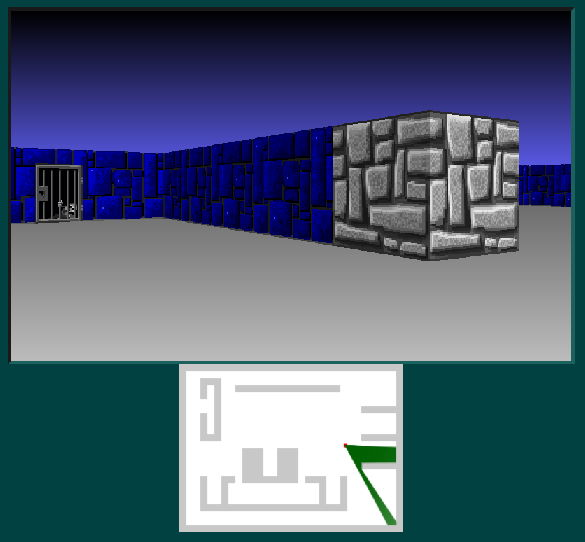
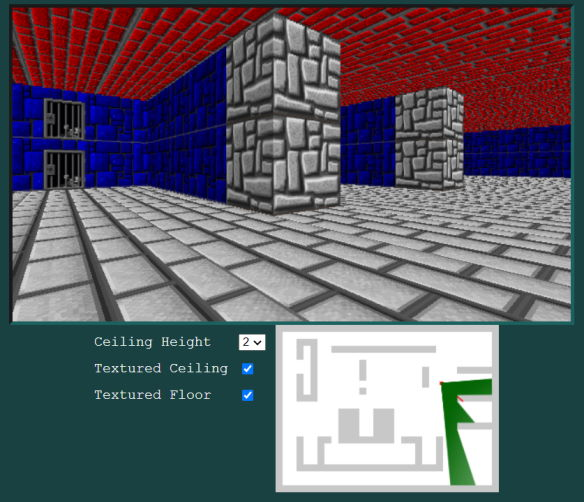
Updated README.md and screenshot

diff --git a/README.md b/README.md
@@ -9,13 +9,14 @@ A Wolfenstein 3D style JavaScript Raycaster using the browser's HTML5 Canvas for
 Heavily modified from [this article by Jacob Seidelin](http://dev.opera.com/articles/view/creating-pseudo-3d-games-with-html-5-can-1/).
 
 Main Differences from original article:
-- **A single &lt;canvas&gt;** is now used for rendering the main scene. In the original article &lt;div&gt; and &lt;img&gt; strips 
+- **A single &lt;canvas&gt;** is now used for rendering the main scene. In the original article &lt;div&gt; and &lt;img&gt; strips
   were used to render the walls, floor and ceiling. The walls are now drawn using the Canvas **drawImage()** function.
-- **Unit circle coordinates** are now used for the player's rotation. So turning left counterclockwise 
+- **Unit circle coordinates** are now used for the player's rotation. So turning left counterclockwise
   is a positive angle.
-- **Walls and tiles now use fixed game units**. The player's position in a tile is no longer a floating point 
+- **Walls and tiles now use fixed game units**. The player's position in a tile is no longer a floating point
   value between 0 to 1, but an integer between 0 to 128. In the original Wolfenstein 3D game a wall was apparently 8 feet and 1 foot was 16 game units.
 - **Horizontal walls** now use a **darker texture**.
+- **Texture mapped** floor and ceiling.
 
 Other links
 - [F. Permadi's Raycasting Tutorial](https://permadi.com/1996/05/ray-casting-tutorial-7/). The raycast math used in this demo is closely based on this tutorial.
